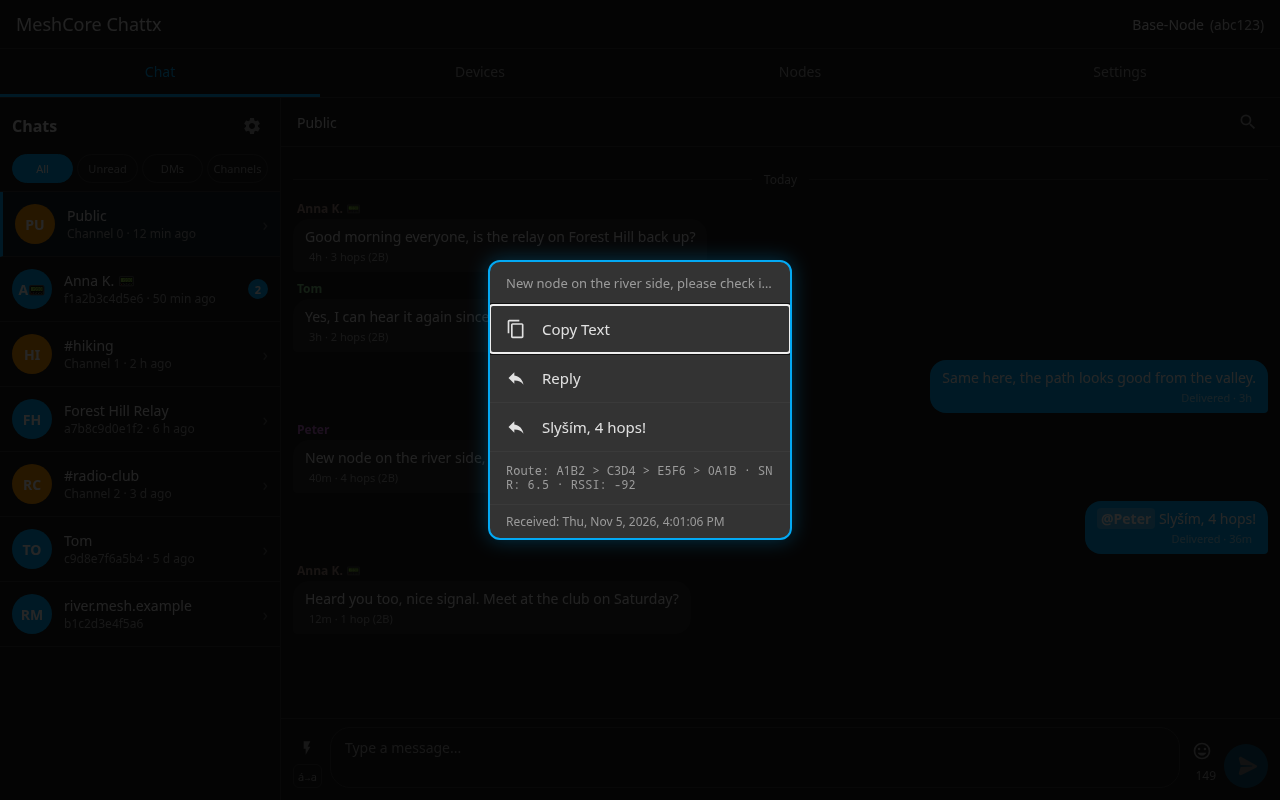
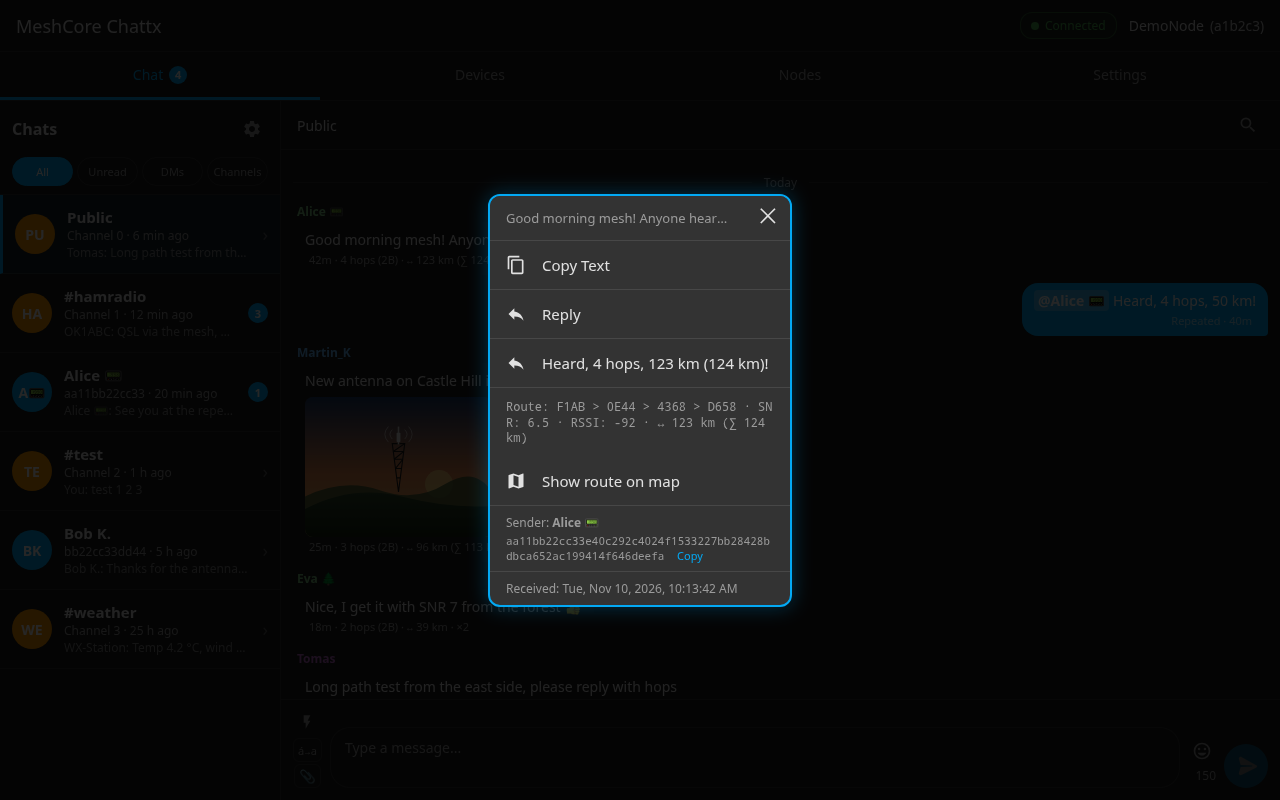
Update screenshots: offline map, images, blocked contacts, distances
New demo screenshots with made-up data from release 0.15.0: the chat with
an image preview, distances and a repeat count; the image upload dialog
and viewer; the route map online and on the offline map (desktop and
phone); the Nodes map offline; Send again; the message details with the
sender's key; Settings with blocked contacts and the offline map.

diff --git a/README.md b/README.md
@@ -103,27 +103,59 @@ These use demo data, and the names and values are made up.
 
 <table>
 <tr>
-<td width="50%"><a href="https://raw.githubusercontent.com/michalsiman/meshcore-ha-chattx/main/assets/screenshots/chattx-chat.png"><img src="https://raw.githubusercontent.com/michalsiman/meshcore-ha-chattx/main/assets/screenshots/chattx-chat.png" alt="Chat with initials, message ages and hop counts"></a></td>
+<td width="50%"><a href="https://raw.githubusercontent.com/michalsiman/meshcore-ha-chattx/main/assets/screenshots/chattx-chat.png"><img src="https://raw.githubusercontent.com/michalsiman/meshcore-ha-chattx/main/assets/screenshots/chattx-chat.png" alt="Chat with an image preview, distances and a repeat count"></a></td>
 <td width="50%"><a href="https://raw.githubusercontent.com/michalsiman/meshcore-ha-chattx/main/assets/screenshots/chattx-composer.png"><img src="https://raw.githubusercontent.com/michalsiman/meshcore-ha-chattx/main/assets/screenshots/chattx-composer.png" alt="Emoji picker, bytes-left counter and diacritics switch"></a></td>
 </tr>
 <tr>
-<td><b>Chat</b> — the newest message under each conversation, unread total on the Chat tab, clickable links, hop count and path size on messages, and "Shorten link" above the message field.</td>
+<td><b>Chat</b> — the newest message under each conversation, image previews, hop count, path size and the distance between the first and last repeater (with the route length in brackets) on messages, ×2 on a message its sender sent twice, and "Unheard" on an own message nobody repeated.</td>
 <td><b>Writing</b> — quick messages and the diacritics switch on the left, emoji and bytes left on the right.</td>
+</tr>
+<tr>
+<td><a href="https://raw.githubusercontent.com/michalsiman/meshcore-ha-chattx/main/assets/screenshots/chattx-image-upload.png"><img src="https://raw.githubusercontent.com/michalsiman/meshcore-ha-chattx/main/assets/screenshots/chattx-image-upload.png" alt="Dialog for sending an image"></a></td>
+<td><a href="https://raw.githubusercontent.com/michalsiman/meshcore-ha-chattx/main/assets/screenshots/chattx-image-viewer.png"><img src="https://raw.githubusercontent.com/michalsiman/meshcore-ha-chattx/main/assets/screenshots/chattx-image-viewer.png" alt="An image shown large over the conversation"></a></td>
+</tr>
+<tr>
+<td><b>Images</b> — paste an image or pick one with 📎; Home Assistant uploads it to catbox.moe, litterbox or tmpfiles.org and the link goes into the message.</td>
+<td><b>Image viewer</b> — a tap on a preview shows the image large over the conversation; ✕, a tap beside it, Escape or the back gesture closes it.</td>
+</tr>
+<tr>
+<td><a href="https://raw.githubusercontent.com/michalsiman/meshcore-ha-chattx/main/assets/screenshots/chattx-route-map-offline.png"><img src="https://raw.githubusercontent.com/michalsiman/meshcore-ha-chattx/main/assets/screenshots/chattx-route-map-offline.png" alt="Route on the offline map"></a></td>
+<td align="center"><a href="https://raw.githubusercontent.com/michalsiman/meshcore-ha-chattx/main/assets/screenshots/chattx-mobile-route-map-offline.png"><img src="https://raw.githubusercontent.com/michalsiman/meshcore-ha-chattx/main/assets/screenshots/chattx-mobile-route-map-offline.png" alt="Route on the offline map on a phone" width="300"></a></td>
+</tr>
+<tr>
+<td><b>Offline map</b> — without internet (or always, if chosen) the maps are drawn from data kept in Home Assistant: borders, regions, towns and peaks.</td>
+<td align="center"><b>Phone</b> — the same on a phone; one finger moves the map, two zoom.</td>
+</tr>
+<tr>
+<td><a href="https://raw.githubusercontent.com/michalsiman/meshcore-ha-chattx/main/assets/screenshots/chattx-nodes-map-offline.png"><img src="https://raw.githubusercontent.com/michalsiman/meshcore-ha-chattx/main/assets/screenshots/chattx-nodes-map-offline.png" alt="Nodes on the offline map"></a></td>
+<td><a href="https://raw.githubusercontent.com/michalsiman/meshcore-ha-chattx/main/assets/screenshots/chattx-send-again.png"><img src="https://raw.githubusercontent.com/michalsiman/meshcore-ha-chattx/main/assets/screenshots/chattx-send-again.png" alt="Send again in the details of an own message"></a></td>
+</tr>
+<tr>
+<td><b>Nodes on the offline map</b> — the Nodes tab map works offline too.</td>
+<td><b>Send again</b> — the same text once more, for example when nobody heard it.</td>
+</tr>
+<tr>
+<td><a href="https://raw.githubusercontent.com/michalsiman/meshcore-ha-chattx/main/assets/screenshots/chattx-settings-blocklist.png"><img src="https://raw.githubusercontent.com/michalsiman/meshcore-ha-chattx/main/assets/screenshots/chattx-settings-blocklist.png" alt="Blocked contacts in Settings"></a></td>
+<td><a href="https://raw.githubusercontent.com/michalsiman/meshcore-ha-chattx/main/assets/screenshots/chattx-settings-map.png"><img src="https://raw.githubusercontent.com/michalsiman/meshcore-ha-chattx/main/assets/screenshots/chattx-settings-map.png" alt="Offline map download in Settings"></a></td>
+</tr>
+<tr>
+<td><b>Blocked contacts</b> — chosen by public key; their messages are neither shown nor stored.</td>
+<td><b>Map settings</b> — countries for the offline map (247, Home Assistant's country and its neighbours suggested), distance unit, and the switch for the offline map only.</td>
 </tr>
 <tr>
 <td><a href="https://raw.githubusercontent.com/michalsiman/meshcore-ha-chattx/main/assets/screenshots/chattx-route-map.png"><img src="https://raw.githubusercontent.com/michalsiman/meshcore-ha-chattx/main/assets/screenshots/chattx-route-map.png" alt="Route of a message on a map"></a></td>
 <td align="center"><a href="https://raw.githubusercontent.com/michalsiman/meshcore-ha-chattx/main/assets/screenshots/chattx-mobile-route-map.png"><img src="https://raw.githubusercontent.com/michalsiman/meshcore-ha-chattx/main/assets/screenshots/chattx-mobile-route-map.png" alt="Route map on a phone" width="300"></a></td>
 </tr>
 <tr>
-<td><b>Route on a map</b> (experimental) — the repeaters a message went through, found among your contacts by their key prefix and drawn over OpenStreetMap, with the list below.</td>
+<td><b>Route on a map</b> (experimental) — the repeaters a message went through, found among your contacts by their key prefix and drawn over OpenStreetMap (loaded through Home Assistant); the map can be dragged and zoomed, and the list below gives each leg and both distances.</td>
 <td align="center"><b>Phone</b> — the same map; the dialog scrolls, and the back gesture hides the map, then closes the dialog.</td>
 </tr>
 <tr>
-<td><a href="https://raw.githubusercontent.com/michalsiman/meshcore-ha-chattx/main/assets/screenshots/chattx-message-popup.png"><img src="https://raw.githubusercontent.com/michalsiman/meshcore-ha-chattx/main/assets/screenshots/chattx-message-popup.png" alt="Message dialog with the heard reply"></a></td>
+<td><a href="https://raw.githubusercontent.com/michalsiman/meshcore-ha-chattx/main/assets/screenshots/chattx-message-popup.png"><img src="https://raw.githubusercontent.com/michalsiman/meshcore-ha-chattx/main/assets/screenshots/chattx-message-popup.png" alt="Message dialog with distances and the sender's key"></a></td>
 <td><a href="https://raw.githubusercontent.com/michalsiman/meshcore-ha-chattx/main/assets/screenshots/chattx-hide-ids.png"><img src="https://raw.githubusercontent.com/michalsiman/meshcore-ha-chattx/main/assets/screenshots/chattx-hide-ids.png" alt="Switch that hides contact IDs and channel numbers"></a></td>
 </tr>
 <tr>
-<td><b>Quick reply</b> — one tap puts a reply such as "Slyším, 4 hops!" with the sender's name in the message field.</td>
+<td><b>Message details</b> — the route with its distances, the sender's public key to copy, and a quick reply set in Settings with {hops}, {km} and {route}, here "Heard, 4 hops, 123 km (124 km)!".</td>
 <td><b>Cleaner list</b> — the gear menu hides contact IDs and channel numbers.</td>
 </tr>
 <tr>
